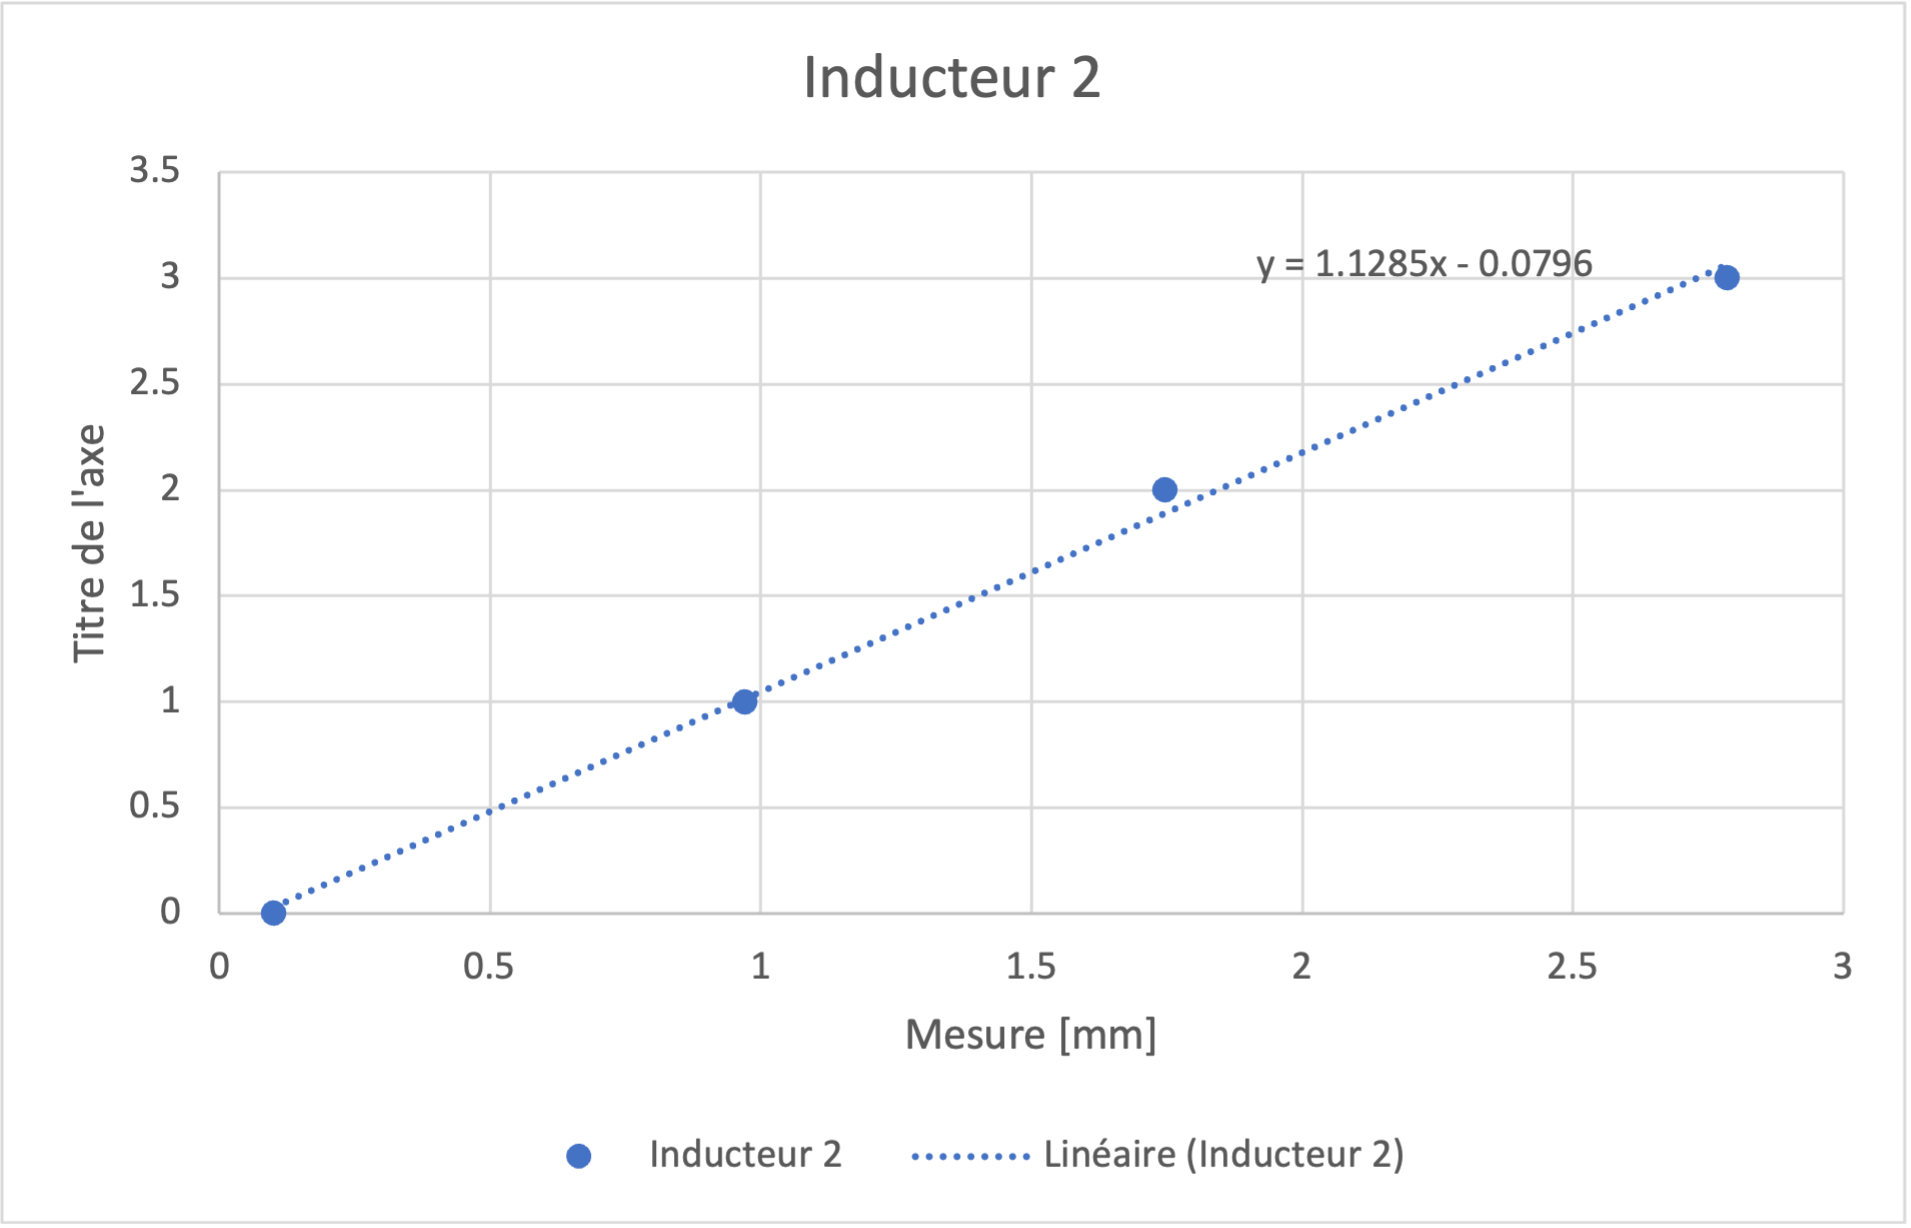
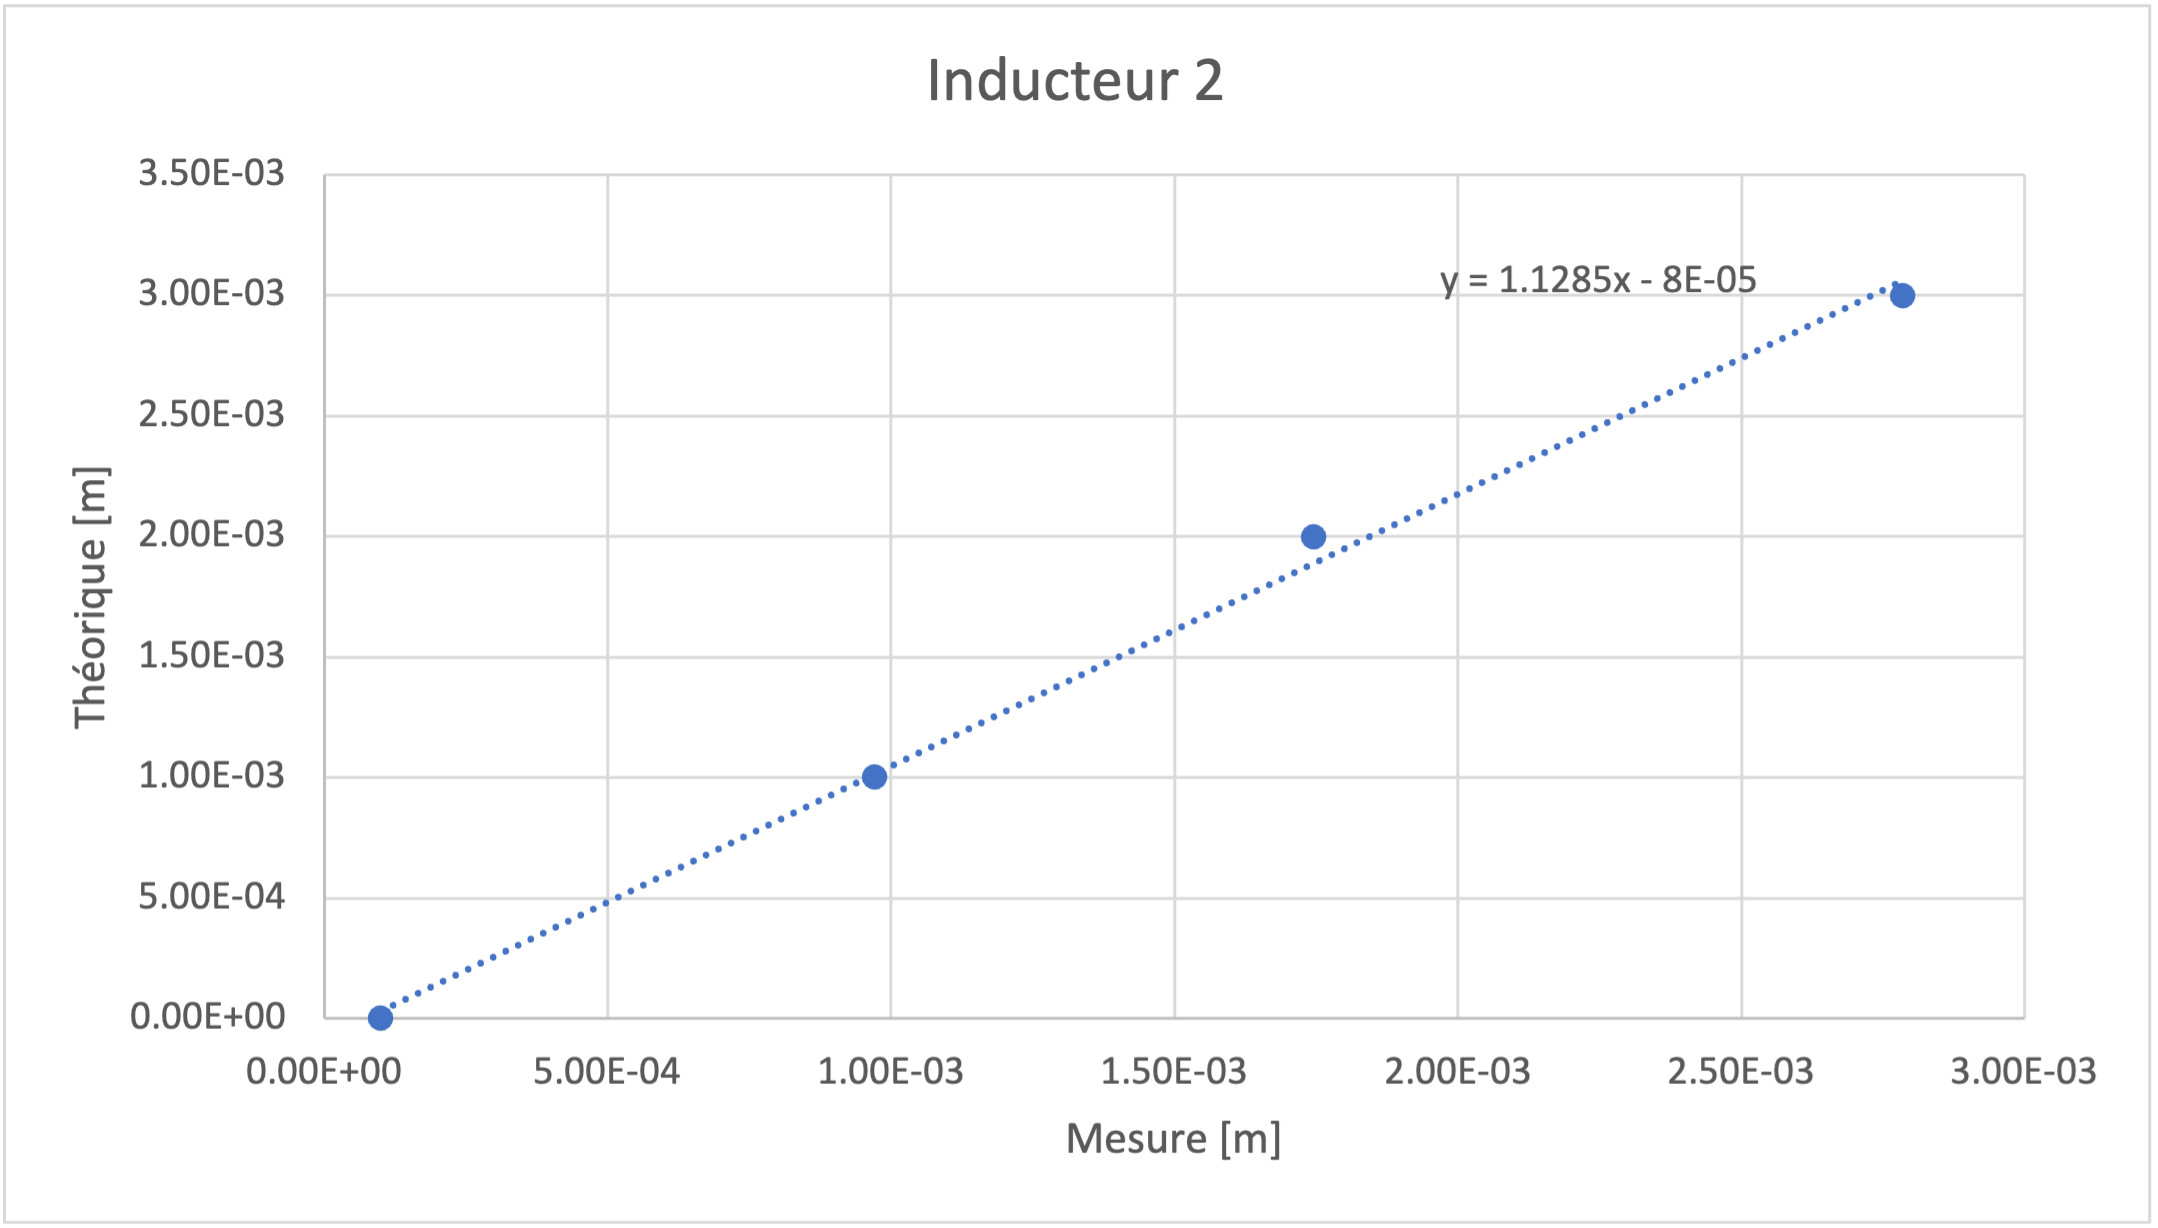
Ajout du tableau de vérif de la correction

diff --git a/content/3-MesureCartePrincipale.tex b/content/3-MesureCartePrincipale.tex
@@ -658,7 +658,35 @@ Ces mesures ont permis de réaliser les tracés présent dans les figures \ref{f
     \label{fig:Prem_tracé_ind4}
 \end{figure}
 
-Ces tracé permettent de ressortir des équations permettant d'appliquer une meilleur correction au système avec un gain et un offset, la valeur en x étant la valeur de l'adc convertit en mm.
+Ces tracé permettent de ressortir des équations permettant d'appliquer une meilleur correction au système avec un gain et un offset, la valeur en x étant la valeur de l'adc convertit en mm.\\
+Une vérification de la mesure fut réaliser comme suit dans le tableaux \ref{tab:correction1_adc} :
+
+\begin{table}[H]
+    \centering
+    \begin{tabular}{|c|c|c|c|c|}
+        \hline
+        \multicolumn{5}{|c|}{\textbf{Mesure des positions entrefers après l'ADC}} \\ \hline
+        Inducteur & Théorique {[}m{]} & Mesure {[}m{]} & Erreur & Erreur relative {[}\%{]} \\ \hline
+        \multirow{4}{*}{1} & 0.00E+00 & 1.81E-04 & 1.81E-04 & - \\ \cline{2-5}
+         & 1.00E-03 & 9.80E-04 & 2.00E-05 & 2.00 \\ \cline{2-5}
+         & 2.00E-03 & 1.91E-03 & 9.10E-05 & 4.55 \\ \cline{2-5}
+         & 3.00E-03 & 3.04E-03 & 3.90E-05 & 1.30 \\ \hline
+        \multirow{4}{*}{2} & 0.00E+00 & 1.70E-05 & 1.70E-05 & - \\ \cline{2-5}
+         & 1.00E-03 & 9.19E-04 & 8.10E-05 & 8.10 \\ \cline{2-5}
+         & 2.00E-03 & 1.89E-03 & 1.07E-04 & 5.35 \\ \cline{2-5}
+         & 3.00E-03 & 3.06E-03 & 5.80E-05 & 1.93 \\ \hline
+        \multirow{4}{*}{3} & 0.00E+00 & 1.08E-04 & 1.08E-04 & - \\ \cline{2-5}
+         & 1.00E-03 & 9.26E-04 & 7.40E-05 & 7.4 \\ \cline{2-5}
+         & 2.00E-03 & 1.96E-03 & 3.70E-05 & 1.85 \\ \cline{2-5}
+         & 3.00E-03 & 3.11E-03 & 1.09E-04 & 3.63 \\ \hline
+        \multirow{4}{*}{4} & 0.00E+00 & -1.00E-05 & 1.00E-05 & - \\ \cline{2-5}
+         & 1.00E-03 & 8.45E-04 & 1.55E-04 & 15.5 \\ \cline{2-5}
+         & 2.00E-03 & 2.00E-03 & 5.00E-06 & 0.25 \\ \cline{2-5}
+         & 3.00E-03 & 3.06E-03 & 6.10E-05 & 2.03 \\ \hline
+    \end{tabular}
+    \caption{Erreurs de mesure des positions en sortie de l'ADC (1ère correction : application des courbes)}
+    \label{tab:correction1_adc}
+\end{table}
 
 \subsection{Mesure après la calibration de tous les capteurs}
 Lorsque la correction ptécédente fut appliqué dans le code, le résultat n'était toujours pas convainquant. C'est pour cela qu'une calibration des 4 capteurs fut raélisé. Cela avait pour but d'essayer d'éliminer l'angle qui se créaient par la calibration précédente. La calibration précédente avait réalisé la méthode teach-in en souleant soit l'avant soit l'arrière de la partie lévitante. Meme si très petite, cela crée un angle que l'on peut observer dans la figure suivante :
